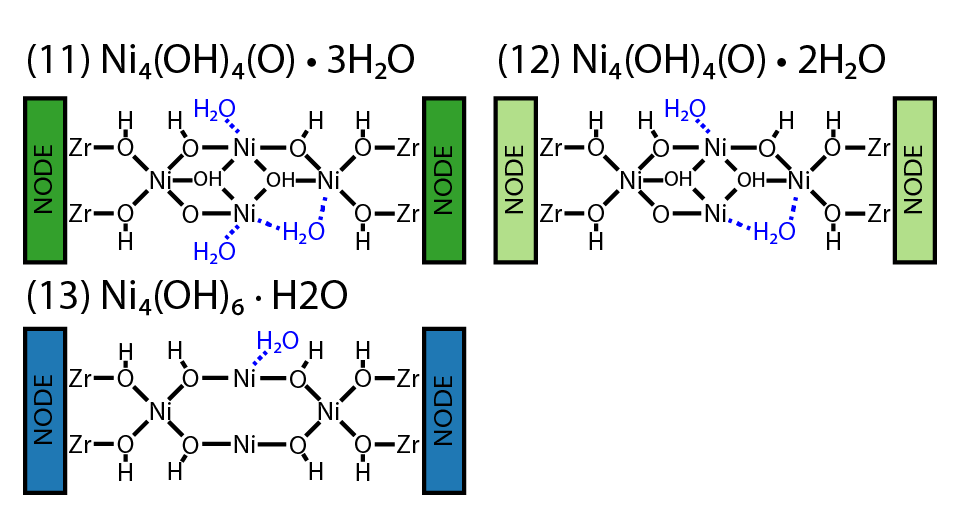
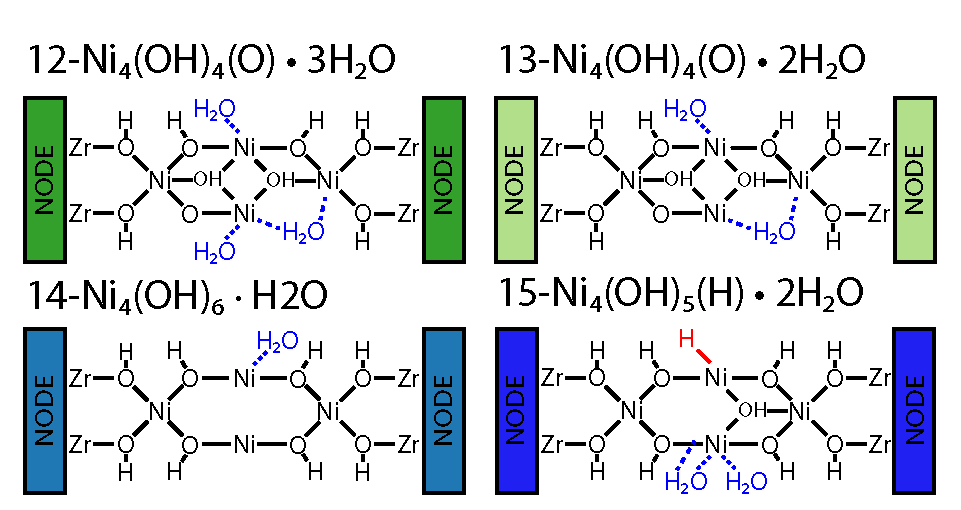
making large changes to the document because of the most recent feedback from Rachel about the manuscript.

diff --git a/outline.tex b/outline.tex
@@ -247,28 +247,26 @@ We create phase diagrams that show the stability of different configurations and
 
 \begin{figure}[H]
     \centering
-    \includegraphics{zi-images/01-Ni-Graphics/2021-figure-structure-diagram-Ni_manuscript-structure.png}
+    \includegraphics{zi-images/01-Ni-Graphics/2021-figure-structure-Ni-transformations_manuscript-structure.png}
     \caption{Schematic representation of the structures that minimize the free energy expression (\ref{eq:free-energy-trans}) the \textit{ab initio} thermodynamic analysis. The blue colored \ce{H2O}s indicate \ce{H2O} coordinated to \ce{Ni} atoms and the red colored \ce{H} atoms indicate the formation of a \ce{Ni-H}.} 
     \label{fig:Ni-structure-diagram}
 \end{figure}
 
-Under the studied reaction conditions, the stable structures that minimize the free energy during \textit{ab initio} thermodynamic analysis are shown in Figure \ref{fig:Ni-structure-diagram}. Figure \ref{fig:Ni-structure-diagram} demonstrates the diverse structural landscape of the \ce{Ni4} metal complex. For example, model 2-\ce{Ni4(OH)6.H2O} (gray) contains adsorbed \ce{H2O} coordinated to one of the \ce{Ni} atoms and model \hl{TEAL structure} contains a \ce{Ni-H} species. Additionally, we observe structures containing the loss of \ce{Ni} atoms (model 6-\ce{Ni2(H)2} (lilac)). The phase diagram describing the different conditions for these structures is shown in Figure \ref{fig:phase_diagram_Ni_combined}. 
+Under the studied reaction conditions, the stable structures that minimize the free energy during \textit{ab initio} thermodynamic analysis are shown in Figure \ref{fig:Ni-structure-diagram}. Figure \ref{fig:Ni-structure-diagram} demonstrates the diverse structural landscape of the \ce{Ni4} metal complex. For example, model 2-\ce{Ni4(OH)6.H2O} (gray) contains adsorbed \ce{H2O} coordinated to one of the \ce{Ni} atoms and model 8-\ce{Ni4(OH)5(H).4H2O} (teal) contains a \ce{Ni-H} species. Additionally, we observe structures containing the loss of \ce{Ni} atoms (model 6-\ce{Ni2(H)2} (lilac)). The phase diagram describing the different conditions for these structures is shown in Figure \ref{fig:phase_diagram_Ni_combined}. 
 
 % fully transforming Phase diagram 
 \begin{figure}[H]
     \centering
     \includegraphics{zi-images/01-Ni-Graphics/2021-03-23-Ni-phase-diagram-combined-manuscript.png}
     \caption{
-    \hl{THIS FIGURE NEEDS TO BE UPDATED WITH RACHEL'S RECOMMENDATIONS}
-    The stability of the \ce{Ni(II)} cluster as a function of temperature and \ce{H2} partial pressure at a \ce{H2O} partial pressure = $10^{-9}$ bar when transforming with (a)
-    \ce{H^{*}}, \ce{OH^{*}}, and \ce{Ni^{*}} and, (b) \ce{H^{*}} and \ce{OH^{*}} (fixed \ce{Ni^{*}}). Regions indicate the the modified structure that minimizes the free energy Equation (\ref{eq:free-energy-trans}) at a given combination of $T/P_{H_{2}}$ and fixed \ce{H2O} partial pressure. The \ce{H2} partial pressure is reported as $log(P_{H_{2}}/P_{H_{2}}^{o})$, where the standard state is 1 atm. The following naming convention is adopted for the structures: 
+    The stability of the \ce{Ni(II)} cluster as a function of temperature and \ce{H2} partial pressure at a \ce{H2O} partial pressure = $10^{-9}$ bar when transforming with (a) \ce{H^{*}}, \ce{OH^{*}}, and \ce{Ni^{*}} and, (b) \ce{H^{*}} and \ce{OH^{*}} (fixed \ce{Ni^{*}}). Regions indicate the the modified structure that minimizes the free energy Equation (\ref{eq:free-energy-trans}) at a given combination of $T/P_{H_{2}}$ and fixed \ce{H2O} partial pressure. The \ce{H2} partial pressure is reported as $log(P_{H_{2}}/P_{H_{2}}^{o})$, where the standard state is 1 atm. The following naming convention is adopted for the structures: 
     1-\ce{Ni4(OH)6} (purple),              % purple
     2-\ce{Ni4(OH)6.H2O} (gray),            % gray
     3-\ce{Ni4(OH)6.4H2O} (orange),         % orange
     4-\ce{Ni4(OH)4} (light blue),          % light blue
     5-\ce{Ni3(OH)2} (red),                 % red
     6-\ce{Ni2(H)2} (lilac),                % lilac 
-    7-\ce{Ni4(OH)4.1H2O} (yellow),         % yellow
+    7-\ce{Ni4(OH)4.H2O} (yellow),         % yellow
     8-\ce{Ni4(OH)5(H).4H2O} (teal),        % teal 
     9-\ce{Ni4(H)2} (mint),                 % mint 
     10-\ce{Ni4(OH)2(H)2} (green), and      % green 
@@ -281,7 +279,7 @@ The cluster is fully transformed, $\Delta F^{(3)}(T,\mu_{\text{H}^{*}},\mu_{\tex
 
 At ambient temperatures (25 \degree C) with a small \ce{H2} partial pressure ($10^{-30}$ bar), the most thermodynamically stable structure is the reference structure, 3-\ce{Ni4(OH)6.4H2O} (orange). Increasing the temperature with a small \ce{H2} partial pressure ($10^{-30}$ bar) shifts the thermodynamic minimum from 3-\ce{Ni4(OH)6.4H2O} (orange) (below 90 \degree C) to 2-\ce{Ni4(OH)6.H2O} (gray) (90 \degree C to 130 \degree C) to 1-\ce{Ni4(OH)6} (purple) (above 130 \degree C). In the absence of \ce{H2}, an increase in temperature removes any coordinated \ce{H2O} from the cluster.
 
-With all coordinated \ce{H2O} removed, an increase in \ce{H2} partial pressure suggests significant changes to the structure and composition of the metal complex. At 200 \degree C, the thermodynamic minimum shifts from the 1-\ce{Ni4(OH)6} (purple) model (below $10^{-27}$ bar) to the  4-\ce{Ni4(OH)4} (light blue) model ($10^{-27}$ bar to $10^{-24}$ bar) to the 5-\ce{Ni3(OH)2} (red) model  ($10^{-24}$ bar to $10^{-17}$ bar) to 6-\ce{Ni2(H)2} (lilac) (above $10^{-17}$ bar) with increasing \ce{H2} partial pressure. The transition between structures occurs via the transformation of \ce{OH}-ligands into \ce{H2O} because of the increasing \ce{H2} partial pressure. Structures 5-\ce{Ni3(OH)2} (red) and 6-\ce{Ni2(H)2} (lilac) also exhibit a loss of \ce{Ni^{*}}, with 6-\ce{Ni2(H)2} (lilac) no longer containing a metal complex linking adjacent nodes within the small pore. As described by Figure \ref{fig:phase_diagram_Ni_combined} (a), at higher \ce{H2} partial pressures these transformations between structures can occur at lower temperatures. We further evaluate the removal of the entire complex, which revealed that under the conditions shown in Figure \ref{fig:phase_diagram_Ni_combined} the global thermodynamic minimum is the NU-1000 MOF support without any \ce{Ni} supported metal complex.
+With all coordinated \ce{H2O} removed, an increase in \ce{H2} partial pressure suggests significant changes to the structure and composition of the metal complex. At 200 \degree C, the thermodynamic minimum shifts with increasing \ce{H2} partial pressure from the 1-\ce{Ni4(OH)6} (purple) model (below $10^{-27}$ bar) to the  4-\ce{Ni4(OH)4} (light blue) model ($10^{-27}$ bar to $10^{-24}$ bar) to the 5-\ce{Ni3(OH)2} (red) model  ($10^{-24}$ bar to $10^{-17}$ bar) to 6-\ce{Ni2(H)2} (lilac) (above $10^{-17}$ bar). The transition between structures occurs via the transformation of \ce{OH}-ligands into \ce{H2O} because of the increasing \ce{H2} partial pressure. Structures 5-\ce{Ni3(OH)2} (red) and 6-\ce{Ni2(H)2} (lilac) also exhibit a loss of \ce{Ni^{*}}, with 6-\ce{Ni2(H)2} (lilac) no longer containing a metal complex linking adjacent nodes within the small pore. As described by Figure \ref{fig:phase_diagram_Ni_combined} (a), at higher \ce{H2} partial pressures these transformations between structures can occur at lower temperatures. We further evaluate the removal of the entire complex, which revealed that under the conditions shown in Figure \ref{fig:phase_diagram_Ni_combined} the global thermodynamic minimum is the NU-1000 MOF support without any \ce{Ni} supported metal complex.
 
 % fully transforming dPDFs
 \begin{figure}[H]
@@ -293,16 +291,19 @@ With all coordinated \ce{H2O} removed, an increase in \ce{H2} partial pressure s
 
 We evaluate the performance of our model by comparing the model dPDFs to experimental dPDFs for an activated \ce{Ni} metal complex supported on NU-1000. \citeauthor{PlateroPrats2017} synthesized the tetranuclear \ce{Ni} cluster, and then activated it by performing a temperature ramp to 200 \degree C and holding the temperature at 200 \degree C for 2 hours under \ce{H2} (3.5\% in \ce{He}).\cite{PlateroPrats2017} 
 
-
 The dPDFs provide structural insights into the cluster by revealing key interatomic distances with peaks indicating the distance between different atoms. Experimentally, the significant dPDF peaks are the \ce{Ni-O} bond length at 2.02 {\AA}, the \ce{Ni{\Compactcdots}Ni} distances at 3.01 {\AA} and 3.27 {\AA}, and the \ce{Ni{\Compactcdots}Zr} distances at 3.78 {\AA} and 4.08 {\AA}. The experimental, activated dPDFs for \ce{Ni{\Compactcdots}Ni} and \ce{Ni{\Compactcdots}Zr} contain multiple peaks that suggests asymmetric distances within the cluster. Figure \ref{fig:dPDFs_TandP_trans_Ni} shows the dPDFs for all the thermodynamically favorable structures found in Figure \ref{fig:phase_diagram_Ni_combined} (a). 
 
-For the \ce{Ni-O} peak, we observe good agreement between the experimental dPDF and the 1-\ce{Ni4(OH)6} (purple) (purple) dPDF. However, the other model structures either under predict (4-\ce{Ni4(OH)4} (light blue), 5-\ce{Ni3(OH)2} (red), and 6-\ce{Ni2(H)2} (lilac)) or slightly over predict (\ce{Ni4(OH)6.41H2O} and 3-\ce{Ni4(OH)6.4H2O} (orange)) the \ce{Ni-O} distance. There is less agreement between the experimental dPDF and the model dPDFs for the \ce{Ni{\Compactcdots}Ni} and \ce{Ni  {\Compactcdots}Zr} split peaks. None of the model structures recreate the split peaks for \ce{Ni{\Compactcdots}Ni} and \ce{Ni{\Compactcdots}Zr}. 1-\ce{Ni4(OH)6} (purple), \ce{Ni4(OH)4.4H2O} and 4-\ce{Ni4(OH)4} (light blue) show a broad \ce{Ni{\Compactcdots}Ni} peak between 3.01 A and 3.27 A rather than two distinct \ce{Ni{\Compactcdots}Ni} peaks. There is no agreement for 6-\ce{Ni2(H)2} (lilac) and 5-\ce{Ni3(OH)2} (red) compared to the 1 Cycle (activated) dPDF for the \ce{Ni{\Compactcdots}Ni} peaks. Additionally, 4-\ce{Ni4(OH)4} (light blue) contains a small peak around 2.29 A that is attributed to another \ce{Ni{\Compactcdots}Ni} distance (\hl{see support information}). Again, none of the model structures are able to recreate the split \ce{Ni{\Compactcdots}Zr} split peaks. 1-\ce{Ni4(OH)6} (purple) and 3-\ce{Ni4(OH)6.4H2O} (orange) contain a single peak centered between the two \ce{Ni{\Compactcdots}Zr} split break bounds. 2-\ce{Ni4(OH)6.H2O} (gray) and 4-\ce{Ni4(OH)4} (light blue) also exhibit a single peak; however, this peak is centered around the lower \ce{Ni{\Compactcdots}Zr} split peak bound. For 5-\ce{Ni3(OH)2} (red) and 6-\ce{Ni2(H)2} (lilac), there are no peaks within the \ce{Ni{\Compactcdots}Zr} region. The 5-\ce{Ni3(OH)2} (red) peak at 3.63 A is the \ce{Ni{\Compactcdots}Zr} peak. When transforming with $\ce{H^{*}}$, $\ce{OH^{*}}$, and $\ce{Ni^{*}}$, we observe that the model structures with \ce{Ni} content less than 4 \ce{Ni} per node do not exhibit peak positions that are similar to the experimental dPDF. 
+For the \ce{Ni-O} peak, we observe good agreement between the experimental dPDF and the 1-\ce{Ni4(OH)6} (purple) (purple) dPDF. However, the other model structures either under predict (4-\ce{Ni4(OH)4} (light blue), 5-\ce{Ni3(OH)2} (red), and 6-\ce{Ni2(H)2} (lilac)) or slightly over predict (\ce{Ni4(OH)6.41H2O} and 3-\ce{Ni4(OH)6.4H2O} (orange)) the \ce{Ni-O} distance. There is less agreement between the experimental dPDF and the model dPDFs for the \ce{Ni{\Compactcdots}Ni} and \ce{Ni  {\Compactcdots}Zr} split peaks. None of the model structures recreate the split peaks for \ce{Ni{\Compactcdots}Ni} and \ce{Ni{\Compactcdots}Zr}. 1-\ce{Ni4(OH)6} (purple), \ce{Ni4(OH)4.4H2O} and 4-\ce{Ni4(OH)4} (light blue) show a broad \ce{Ni{\Compactcdots}Ni} peak between 3.01 A and 3.27 A rather than two distinct \ce{Ni{\Compactcdots}Ni} peaks. There is no agreement for 6-\ce{Ni2(H)2} (lilac) and 5-\ce{Ni3(OH)2} (red) compared to the experimental dPDF for the \ce{Ni{\Compactcdots}Ni} peaks. Additionally, 4-\ce{Ni4(OH)4} (light blue) contains a small peak around 2.29 A that is attributed to another \ce{Ni{\Compactcdots}Ni} distance (\hl{see support information}). Again, none of the model structures are able to recreate the split \ce{Ni{\Compactcdots}Zr} split peaks. 1-\ce{Ni4(OH)6} (purple) and 3-\ce{Ni4(OH)6.4H2O} (orange) contain a single peak centered between the two \ce{Ni{\Compactcdots}Zr} split break bounds. 2-\ce{Ni4(OH)6.H2O} (gray) and 4-\ce{Ni4(OH)4} (light blue) also exhibit a single peak; however, this peak is centered around the lower \ce{Ni{\Compactcdots}Zr} split peak bound. For 5-\ce{Ni3(OH)2} (red) and 6-\ce{Ni2(H)2} (lilac), there are no peaks within the \ce{Ni{\Compactcdots}Zr} region. The 5-\ce{Ni3(OH)2} (red) peak at 3.63 A is the \ce{Ni{\Compactcdots}Zr} peak. When transforming with $\ce{H^{*}}$, $\ce{OH^{*}}$, and $\ce{Ni^{*}}$, we observe that the model structures with \ce{Ni} content less than 4 \ce{Ni} per node do not exhibit peak positions that are similar to the experimental dPDF. 
 
 In general, the structures located in Figure \ref{fig:phase_diagram_Ni_combined} (a) are too uncoordinated to match the experimental dPDF. Experimentally, \citeauthor{PlateroPrats2017} found the \ce{Ni} coordination environment be approximately 5.4 under activation conditions.\cite{PlateroPrats2017} The structures shown in Figure \ref{fig:Ni-structure-diagram} fail to match the experimentally observed coordination environment for the \ce{Ni} atoms. Therefore, we explore the stability of the cluster with a fixed \ce{Ni^{*}} composition.
 
 %Despite Figure \ref{fig:structure_diagram_TandP_trans_Ni} suggesting the complete breakdown of the cluster in a bulk-\ce{Ni} species, there is no experimental evidence. Therefore, we remove all structures with a \ce{Ni} compositional less than four and remove the \ce{Ni} transformation in the free energy expression. Figure \ref{fig:phase_diagram_TandP_fixed_Ni} shows the thermodynamic stability as a function of T and P-H2 at a fixed partial pressure of H2O and \ce{Ni} composition. 
 
-The cluster is now transformed with respect to composition of $\ce{H^{*}}$ and $\ce{OH^{*}}$ at a fixed \ce{Ni^{*}} composition (Figure \ref{fig:phase_diagram_Ni_combined} b)). 1-\ce{Ni4(OH)6} (purple), 2-\ce{Ni4(OH)6.H2O} (gray), 3-\ce{Ni4(OH)6.4H2O} (orange), and 4-\ce{Ni4(OH)4} (light blue) appear on both (Figure \ref{fig:phase_diagram_Ni_combined} a) and b). The new models appear appearing on the diagram are \ce{Ni4(OH)4.H2O}, 9-\ce{Ni4(H)2} (mint), \ce{Ni(NiOH)2(NiH2)}, and 11-\ce{Ni4(OH)2(H)2.H2O} (pink). These models occupy the phase space of 5-\ce{Ni3(OH)2} and 6-\ce{Ni2(H)2} (lilac) on Figure \ref{fig:phase_diagram_Ni_combined} a). A similar trend is observed in Figure \ref{fig:phase_diagram_Ni_combined} b) as Figure \ref{fig:phase_diagram_Ni_combined} a); the continued conversion of \ce{\mu_{2}-OH^{*}} sites into \ce{H2O} with increasing \ce{H2} partial pressure. Starting from 4-\ce{Ni4(OH)4} (light blue), the lowest energy structures exhibit the replacement of \ce{\mu_{2}-OH} ligands with \ce{Ni-H-Ni} structural units. 10-\ce{Ni4(OH)2(H)2} (green) shows the partial conversion of and 9-\ce{Ni4(H)2} (mint) shows the full conversion of the \ce{\mu_{2}-OH} ligands that link the \ce{Ni} atoms of the cluster. Even at low temperatures, adsorbed \ce{H2O} is found in the lowest energy structures (\ce{Ni4(OH)4.H2O} and 11-\ce{Ni4(OH)2(H)2.H2O} (pink)). 
+The cluster is now transformed with respect to composition of $\ce{H^{*}}$ and $\ce{OH^{*}}$ at a fixed \ce{Ni^{*}} composition (Figure \ref{fig:phase_diagram_Ni_combined} (b)). 1-\ce{Ni4(OH)6} (purple), 2-\ce{Ni4(OH)6.H2O} (gray), 3-\ce{Ni4(OH)6.4H2O} (orange), and 4-\ce{Ni4(OH)4} (light blue) appear on both Figure \ref{fig:phase_diagram_Ni_combined} (a) and (b). The new models appear appearing on \ref{fig:phase_diagram_Ni_combined} (b) are 7-\ce{Ni4(OH)4.H2O} (yellow), 8-\ce{Ni4(OH)5(H).4H2O} (teal), 9-\ce{Ni4(H)2} (mint), 10-\ce{Ni4(OH)2(H)2} (green), and 11-\ce{Ni4(OH)2(H)2.H2O} (pink). These models occupy the phase space of 5-\ce{Ni3(OH)2} (red) and 6-\ce{Ni2(H)2} (lilac) on Figure \ref{fig:phase_diagram_Ni_combined} (a). 
+
+A similar trend is observed in Figure \ref{fig:phase_diagram_Ni_combined} (b) as Figure \ref{fig:phase_diagram_Ni_combined} (a); the continued conversion of \ce{\mu_{2}-OH^{*}} sites into \ce{H2O} with increasing \ce{H2} partial pressure. Starting from 4-\ce{Ni4(OH)4} (light blue), the lowest energy structures exhibit the replacement of \ce{\mu_{2}-OH} ligands with \ce{Ni-H-Ni} structural units. 10-\ce{Ni4(OH)2(H)2} (green) shows the partial conversion of and 9-\ce{Ni4(H)2} (mint) shows the full conversion of the \ce{\mu_{2}-OH} ligands that link the \ce{Ni} atoms of the cluster. Even at low temperatures, adsorbed \ce{H2O} is found in the lowest energy structures (7-\ce{Ni4(OH)4.H2O} (yellow) and 11-\ce{Ni4(OH)2(H)2.H2O} (pink)). 
+
+Interestingly, 8-\ce{Ni4(OH)5(H).4H2O} (teal) exhibits a \ce{Ni-H} and two coordinated \ce{H2O} to the adjacent middle \ce{Ni} atom. However, we also capture a chain of \ce{H2O} molecules that are not coordinated to any of the \ce{Ni} atoms. A structure with these \ce{H2O} removed did not appear to be a thermodynamic minimum after performing \textit{ab initio} thermodynamic analysis. 
 
 % Fixed Ni dPDFs
 \begin{figure}[H]
@@ -312,15 +313,17 @@ The cluster is now transformed with respect to composition of $\ce{H^{*}}$ and $
     \label{fig:dPDFs_TandP_fixed_Ni}
 \end{figure}
 
-We again evaluate the performance of our model system by comparing the model dPDFs to the experimental 1 cycle (activated) dPDF by comparing peaks across all structures (Figure \ref{fig:dPDFs_TandP_fixed_Ni}). First, we find that all model structures underpredict the \ce{Ni-O} bond length. Second, we find that as the cluster is reduced and \ce{OH^{*}} are removed a sharp peak appears between 2.1 A and 2.5 A. Inspecting the structures, the peak is related to a \ce{Ni{\Compactcdots}Ni} distance between the two middle atoms of the cluster and is seen by \ce{Ni4(OH)4.H2O}, 9-\ce{Ni4(H)2} (mint), \ce{Ni(NiOH)2(NiH2)}, and 11-\ce{Ni4(OH)2(H)2.H2O} (pink). The split \ce{Ni{\Compactcdots}Ni} peaks are not captured by any of the thermodynamically dominate structures. However, \ce{Ni4(OH)4.H2O} and 9-\ce{Ni4(H)2} (mint) show a single sharp peak centered around the split \ce{Ni{\Compactcdots}Ni} peaks. Interestingly, 11-\ce{Ni4(OH)2(H)2.H2O} (pink) shows no peak within the 3.01 A to 3.27 A, but shows a prominent peaks associated to a \ce{Ni{\Compactcdots}Ni} distance at 2.30 A and 2.71 A. 9-\ce{Ni4(H)2} (mint) and 11-\ce{Ni4(OH)2(H)2.H2O} (pink) show a single peak within the bounds for the 1 Cycle (activated) \ce{Ni{\Compactcdots}Zr} split peaks. 10-\ce{Ni4(OH)2(H)2} (green) weakly exhibits the split \ce{Ni{\Compactcdots}Zr} peaks, but includes additional peaks at 2.20, 2.54, and 3.40 that are attributed to a \ce{Ni{\Compactcdots}Ni} distance. For the \ce{Ni{\Compactcdots}Zr}, 4-\ce{Ni4(OH)4} (light blue) shows a single peak at 3.81 A and 11-\ce{Ni4(OH)2(H)2.H2O} (pink) shows a single peak at 3.95 A. 9-\ce{Ni4(H)2} (mint) show a single peak between the 1 Cycle (activated) peaks at 3.88 A, but also features an additional \ce{Ni{\Compactcdots}Zr} peak at 3.17 A. 10-\ce{Ni4(OH)2(H)2} (green) shows two peaks of unequal height at 3.78 A and 4.00 A that are close to the peak positions of the 1 Cycle (activated) sample. \ce{Ni4(OH)4.H2O} shows \ce{Ni{\Compactcdots}Zr} peak splitting; however, the splitting is shifted to lower positions at 3.66 A and 3.92 A. Overall, we observe peak splitting in a few structures, but fail to see an overall agreement with the 1 Cycle (activated) dPDFs from \citeauthor{PlateroPrats2017} 
+We again evaluate the performance of our model system by comparing the model dPDFs to the experimental dPDF by comparing peaks across all structures (Figure \ref{fig:dPDFs_TandP_fixed_Ni}). First, we find that all model structures underpredict the \ce{Ni-O} bond length. Second, we find that as the cluster is reduced and \ce{OH^{*}} are removed a sharp peak appears between 2.1 A and 2.5 A. Inspecting the structures, the peak is related to a \ce{Ni{\Compactcdots}Ni} distance between the two middle atoms of the cluster and is seen by 7-\ce{Ni4(OH)4.H2O}, 9-\ce{Ni4(H)2} (mint), \ce{Ni(NiOH)2(NiH2)}, and 11-\ce{Ni4(OH)2(H)2.H2O} (pink). The split \ce{Ni{\Compactcdots}Ni} peaks are not captured by any of the thermodynamically dominate structures. However, 7-\ce{Ni4(OH)4.H2O} and 9-\ce{Ni4(H)2} (mint) show a single sharp peak centered around the split \ce{Ni{\Compactcdots}Ni} peaks. Interestingly, 11-\ce{Ni4(OH)2(H)2.H2O} (pink) shows no peak within the 3.01 A to 3.27 \AA, but shows a prominent peaks associated to a \ce{Ni{\Compactcdots}Ni} distance at 2.30 {\AA} and 2.71 {\AA}. 9-\ce{Ni4(H)2} (mint) and 11-\ce{Ni4(OH)2(H)2.H2O} (pink) show a single peak within the bounds for the experimental \ce{Ni{\Compactcdots}Zr} split peaks. 10-\ce{Ni4(OH)2(H)2} (green) weakly exhibits the split \ce{Ni{\Compactcdots}Zr} peaks, but includes additional peaks at 2.20 \AA, 2.54 \AA, and 3.40 {\AA} that are attributed to a \ce{Ni{\Compactcdots}Ni} distance. For the \ce{Ni{\Compactcdots}Zr}, 4-\ce{Ni4(OH)4} (light blue) shows a single peak at 3.81 {\AA} and 11-\ce{Ni4(OH)2(H)2.H2O} (pink) shows a single peak at 3.95 {\AA}. 9-\ce{Ni4(H)2} (mint) show a single peak between the experimental peaks at 3.88 \AA, but also features an additional \ce{Ni{\Compactcdots}Zr} peak at 3.17 {\AA}. 10-\ce{Ni4(OH)2(H)2} (green) shows two peaks of unequal height at 3.78 {\AA} and 4.00 {\AA} that are close to the peak positions of the experimental sample. 7-\ce{Ni4(OH)4.H2O} shows \ce{Ni{\Compactcdots}Zr} peak splitting; however, the splitting is shifted to lower positions at 3.66 {\AA} and 3.92 {\AA}. Overall, we observe peak splitting in a few structures, but fail to exactly reproduce the experimental dPDFs from \citeauthor{PlateroPrats2017} 
 
-For a fixed \ce{Ni^{*}}, we again find the coordination between the model structure and the 1 Cycle (activated) to disagree. With increasing \ce{H2} partial pressure, the \ce{Ni} coordination decreases to create undercoordinated \ce{Ni} species.
+Interestingly, model 8-\ce{Ni4(OH)5(H).4H2O} (teal) features \ce{Ni-H} and adsorbed \ce{H2O}. For the \ce{Ni-O} peak, 8-\ce{Ni4(OH)5(H).4H2O} (teal) features a broad peak (centered around the 2.02 \AA) is attributed to the range of \ce{Ni-O} distances within the cluster (Figure \ref{fig:atomic-distances-Ni}). Additionally, 8-\ce{Ni4(OH)5(H).4H2O} contains split \ce{Ni{\Compactcdots}Ni} peaks albeit that the split \ce{Ni{\Compactcdots}Ni} peak is shifted to 2.84 {\AA} and 3.25 {\AA} compared to 3.01 {\AA} and 3.27 {\AA}. For the \ce{Ni{\Compactcdots}Zr} split peaks, model 8-\ce{Ni4(OH)5(H).4H2O} (teal) contains a single peak centers between the experimental peaks.   
+
+Again, we find that the bulk of the structures for a fixed \ce{Ni^{*}} under predict the coordination environment for the \ce{Ni} atoms except for the structures at lower \ce{H2} partial pressure and temperature (3-\ce{Ni4(OH)6.4H2O} (orange) and 8-\ce{Ni4(OH)5(H).4H2O} (teal)). This analysis therefore suggests that even during activation conditions \ce{H2O} still is present within the active site structure. We search the model structure library to find structures that more closely match the peak splitting observed experimental and \ce{Ni} coordination environment (Figure \ref{fig:Ni-special-structures}). We find that the following model structures are relevant: 12-\ce{Ni4(OH)4(O).3H2O} (green), 13-\ce{Ni4(OH)4(O).2H2O} (light green), 14-\ce{Ni4(OH)6.H2O} (blue), and 15-\ce{Ni4(OH)5(H).2H2O} (royal). 
 
 \begin{figure}[H]
     \centering
-    \includegraphics{zi-images/01-Ni-Graphics/2021-03-03-Ni-special-selection-dPDFs-manuscript.png}
+    \includegraphics{zi-images/01-Ni-Graphics/2021-03-26-Ni-special-selection-dPDFs-manuscript.png}
     \caption{
-    Differential pair distribution functions (dPDFs) for select model structures that do not appear on Figure \ref{fig:phase_diagram_Ni_combined}. The structures shown above are not thermodynamic minimum. The naming convention is adopted: (11) \ce{Ni4(OH)4(O).3H2O} (green), (12) \ce{Ni4(OH)4(O).2H2O} (light green), and (13) \ce{Ni4(OH)6.H2O} (blue).
+    Differential pair distribution functions (dPDFs) for select model structures that do not appear on Figure \ref{fig:phase_diagram_Ni_combined}. The structures shown above are not thermodynamic minimum. The naming convention is adopted: 12-\ce{Ni4(OH)4(O).3H2O} (green), 13-\ce{Ni4(OH)4(O).2H2O} (light green), 14-\ce{Ni4(OH)6.H2O} (blue), and 15-\ce{Ni4(OH)5(H).2H2O} (royal).
     }
     \label{fig:dPDF-Ni-special}
 \end{figure}
@@ -329,62 +332,64 @@ For a fixed \ce{Ni^{*}}, we again find the coordination between the model struct
     \centering
     \includegraphics{zi-images/01-Ni-Graphics/2021-figure-structure-Ni-transformations_manuscript-additional-structures.png}
     \caption{
-    Schematic representations of the model structures found in Figure \ref{fig:dPDF-Ni-special}, with the following naming convention: (11) \ce{Ni4(OH)4(O).3H2O} (green), (12) \ce{Ni4(OH)4(O).2H2O} (light green), and (13) \ce{Ni4(OH)6.H2O} (blue). The structures shown here do not represent a thermodynamic minimum from the \textit{ab initio} thermodynamic analysis and therefore do not appear on the phase diagrams. 
+    Schematic representations of the model structures found in Figure \ref{fig:dPDF-Ni-special}, with the following naming convention: 12-\ce{Ni4(OH)4(O).3H2O} (green), 13-\ce{Ni4(OH)4(O).2H2O} (light green), 14-\ce{Ni4(OH)6.H2O} (blue), and 15-\ce{Ni4(OH)5(H).2H2O} (royal). The structures shown here do not represent a thermodynamic minimum from the \textit{ab initio} thermodynamic analysis and therefore do not appear on the phase diagrams. 
     }
     \label{fig:Ni-special-structures}
 \end{figure}
 
-We searched the model structure library to find structures that might better reproduce the 1 (Cycled) activated dPDF (Figure \ref{fig:Ni-special-structures}). We found the following model structures to be structurally relevant: (11) \ce{Ni4(OH)4(O).3H2O} (green), (12) \ce{Ni4(OH)4(O).2H2O} (light green), and (13) \ce{Ni4(OH)6.H2O} (blue). Both (11) \ce{Ni4(OH)4(O).3H2O} (green) and \ce{Ni4(OH)4(O).2H2O} (light green) are structurally unique. The proton topology of the cluster was modified by transforming a \ce{\mu_{2}-OH} ligand to an \ce{\mu_{2}-O} ligand. 
-Although not as pronounced, (11) \ce{Ni4(OH)4(O).3H2O} (green) demonstrates both \ce{Ni{\Compactcdots}Ni} and \ce{Ni{\Compactcdots}Zr} peak splitting. The upper bound for the \ce{Ni{\Compactcdots}Ni} peak is shifted 3.35 A from 3.27 A. The \ce{Ni-O} peak for (11) \ce{Ni4(OH)4(O).3H2O} (green) matches the peak of 2.02 A of the 1 Cycle (activated). However, the \ce{Ni-O} peak for (11) \ce{Ni4(OH)4(O).3H2O} (green) is noticeably broader. The increased width is attributed to the adsorbed \ce{H2O} distance around 2.25 A. (12) \ce{Ni4(OH)4(O).2H2O} (light green) matches the \ce{Ni-O} distance, and does contain split \ce{Ni{\Compactcdots}Ni} peaks that are shifted to lower distances relative to the 1 Cycle (activated). (12) \ce{Ni4(OH)4(O).2H2O} (light green) model does not demonstrate \ce{Ni{\Compactcdots}Zr} peak splitting, but does contain a single peak at the lower \ce{Ni{\Compactcdots}Zr} limit. The (13) \ce{Ni4(OH)6.H2O} (blue) model contains a sharp peak at 2.04 A related to the \ce{Ni-O} distance, \ce{Ni{\Compactcdots}Zr} splitting shifted to lower distances, and a single \ce{Ni{\Compactcdots}Zr } peak within the bounds of \ce{Ni{\Compactcdots}Zr} peak splitting. All of the structures do not contain a \ce{Ni{\Compactcdots}Ni} peak between 2.1 A and 2.4 A, which was seen on a majority of the structures in Figure \ref{fig:phase_diagram_Ni_combined} and Figure \ref{fig:Ni-structure-diagram}. 
+Both 12-\ce{Ni4(OH)4(O).3H2O} (green) and \ce{Ni4(OH)4(O).2H2O} (light green) are structurally unique because the cluster proton topology was modified by transforming a \ce{\mu_{2}-OH} ligand to an \ce{\mu_{2}-O} ligand. Although not as pronounced, 12-\ce{Ni4(OH)4(O).3H2O} (green) demonstrates both \ce{Ni{\Compactcdots}Ni} and \ce{Ni{\Compactcdots}Zr} peak splitting. The upper bound for the \ce{Ni{\Compactcdots}Ni} peak is shifted 3.35 A from 3.27 A. The \ce{Ni-O} peak for 12-\ce{Ni4(OH)4(O).3H2O} (green) matches the peak of 2.02 A of the experimental dPDF. However, the \ce{Ni-O} peak for 12-\ce{Ni4(OH)4(O).3H2O} (green) is noticeably broader. The increased width is attributed to the adsorbed \ce{H2O} distance around 2.25 A. 13-\ce{Ni4(OH)4(O).2H2O} (light green) matches the \ce{Ni-O} distance, and does contain split \ce{Ni{\Compactcdots}Ni} peaks that are shifted to lower distances relative to the experimental dPDF. 13-\ce{Ni4(OH)4(O).2H2O} (light green) model does not demonstrate \ce{Ni{\Compactcdots}Zr} peak splitting, but does contain a single peak at the lower \ce{Ni{\Compactcdots}Zr} limit. The 14-\ce{Ni4(OH)6.H2O} (blue) model contains a sharp peak at 2.04 A related to the \ce{Ni-O} distance, \ce{Ni{\Compactcdots}Zr} splitting shifted to lower distances, and a single \ce{Ni{\Compactcdots}Zr } peak within the bounds of \ce{Ni{\Compactcdots}Zr} peak splitting.  The 15-\ce{Ni4(OH)5(H).2H2O} (royal) model structure features split \ce{Ni{\Compactcdots}Ni} peak that closely match the experimental dPDF, but also features another \ce{Ni{\Compactcdots}Ni} peak at 2.64 {\AA} and a broad \ce{Ni-O} peak. The 15-\ce{Ni4(OH)5(H).2H2O} (royal) is the optimized structure of 8-\ce{Ni4(OH)5(H).4H2O} (teal) with 2 \ce{H2O} removed from the structure. The 2.64 {\AA} peak appears with the removal of the \ce{H2O}.
 
-All three structure located on Figure \ref{fig:dPDF-Ni-special} demonstrate matching features to the 1 Cycle (activated), but do not appear on Figure \ref{fig:phase_diagram_Ni_combined} because of their electronic energies. For the same atomic composition, there are structures that are electronically lower in energy. Despite (11) \ce{Ni4(OH)4(O).3H2O} (green) showing better agreement with the 1 Cycle (activated) structure, the structure does not appear on the phase diagram. 
+All four structure located on Figure \ref{fig:dPDF-Ni-special} demonstrate matching features to the experimental dPDF, but do not appear on Figure \ref{fig:phase_diagram_Ni_combined} because of their electronic energies. For the same atomic composition, there are structures that are electronically lower in energy. These structures compete with structures at the lower temperatures. 
 
-\hl{I think a good figure would be to pick a specific set of conditions and compare the relative free energies of all the different structures. I can show the relative gibbs free energies of all the structures listed above at a specific set of conditions.. maybe like the line plot I created at the very beginning of this project.. I could pick a set temperature (200 oC) and then create a line plot with x axis being the log(PH2) and y axis being the gibbs free energy.... basically a phase diagram at a fixed temperature and PH2O).}
+\begin{figure}[H]
+    \centering
+    \includegraphics{zi-images/01-Ni-Graphics/2021-figure-lineplot.png}
+    \caption{
+    The $\Delta F^{(2)}(T,\mu_{\text{H}^{*}},\mu_{\text{OH}^{*}},N_{\text{Ni}^{*}})$ at a fixed \ce{H2} partial pressure of $10^{-5}$ bar and \ce{H2O} partial pressure of $10^{-9}$ bar. As the temperature increases, the thermodynamic landscape within the structure library changes. The colored circles are classified as thermodynamic minimum under some set of conditions, as described by Figure \ref{fig:phase_diagram_Ni_combined}. The colors and numbers are the same previously utilized by Figure \ref{fig:Ni-structure-diagram} and Figure \ref{fig:phase_diagram_Ni_combined}. The black triangles highlight the free energy of a structure within 50 kJ mol$^{-1}$ of the lowest energy structure at the specific set of conditions.
+    }
+    \label{fig:Ni-relative-energy-plot}
+\end{figure}
 
-%    (1)  \ce{Ni4(OH)6},                  % purple
-%    (2)  \ce{Ni4(OH)6.H2O},        % gray
-%    (3)  \ce{Ni4(OH)6.4H2O},       % orange
-%    (4)  \ce{Ni4(OH)4},                  % light blue
-%    (5)  \ce{Ni3(OH)2},                  % red
-%    (6)  \ce{(NiH)2},                    % lilac
-%    (7)  \ce{Ni4(OH)4.H2O},        % yellow
-%    (8)  \ce{(NiH2Ni)(Ni2)},             % mint
-%    9-\ce{Ni(NiOH)2(NiH2)}, and       % green 
-%    10-\ce{Ni(NiH)2Ni(OH)2.H2O}. % pink
+The phase diagrams, Figure \ref{fig:phase_diagram_Ni_combined}, highlight the most thermodynamically favorable structure at specific conditions. However, the next lowest energy structure is important to consider. We examine the full thermodynamic landscape at a fixed \ce{H2} partial pressure of $10^{-5}$ bar and \ce{H2O} partial pressure of $10^{-9}$ bar while varying the temperature in Figure \ref{fig:Ni-relative-energy-plot}. Additionally, we expand on the thermodynamic minimum in Figure \ref{fig:Ni-relative-energy-plot} to include library structures that are within 50 kJ mol$^{-1}$ of the lowest energy structure at those specific conditions. When considering additional structures within 50 kJ mol$^{-1}$, we determine the significance of the library and the potential for a distribution of active site structures at a specific reaction conditions. The closer in energy the structure is to the lowest energy structure, the more likely the active site is a distribution of active sites rather than the single lowest energy structure. 
+
+
+\begin{figure}[H]
+    \centering
+    \includegraphics{zi-images/01-Ni-Graphics/2021-figure-atomic-structure.png}
+    \caption{The atomic representation of 8-\ce{Ni4(OH)5(H).4H2O} (teal) is shown from the (a) top and (b) side-view. Integers label the different atoms within the structure. All \ce{H2O} are outlined in blue, and the blue non-integer numbers correspond to \ce{Ni-O} distances for the \ce{H2O}. Black, non-integer numbers correspond to the \ce{Ni-O} distances for the \ce{OH} ligands within the cluster.}
+    \label{fig:atomic-distances-Ni}
+\end{figure}
+\todo[inline]{Not sure about my thoughts on this figure.}
 
 %%%%%%%%%%%%%%%%%%%%%%%%%%%%%%%%%%%%%%%%%%%%%%%%%%%%%%%%%%%%%%%%%%%%%
 %% Discussion
 %%%%%%%%%%%%%%%%%%%%%%%%%%%%%%%%%%%%%%%%%%%%%%%%%%%%%%%%%%%%%%%%%%%%
 \newpage
 \subsection{Discussion}
-The stability of metal complexes supported on MOFs depend on the reaction environment. 
-
 %The \ce{Ni(II)} metal complex structure is dependent on the environment. In the absence of any \ce{H2}, the cluster contains four \ce{Ni(II)} atoms interconnected by \ce{OH}-ligands as suggested by \hl{REFERENCE Platero-Prats}. The tetranuclear configuration of the \ce{Ni(II)} cluster spans the c-pore of the NU-1000 framework. When exposed to \ce{H2} gas, the \ce{OH}-ligands provide sites for \ce{H} adsorption onto the cluster resulting in the formation of \ce{H2O}.  \hl{HIGHLIGHT THE SINTERING PAPER} investigate \ce{H2} adsorption and dissociation on a single \ce{Ni} atom also supported on NU-1000, finding that barriers for \ce{H2} adsorption and dissociation and removal of \ce{H2O} are 141 $kJ/mol$. However within our work, we do not look at the kinetics of \ce{H2} adsorption and dissociation and the subsequent removal of \ce{H2O}. Our discussion focuses on the equilibrium thermodynamic structure resulting from exposure to \ce{H2} gas at different partial pressure and temperatures. 
 
 
 \begin{itemize}
+    \item Discussion Topic 1: Comparisons with experiments
+    \item Discussion Topic 2: \ce{Ni-H} formation in 8-\ce{Ni4(OH)5(H).4H2O} (teal)
+    \item Discussion Topic 3:
+    \item Discussion Topic 4:
+    
     \item Discussion Topic 1:
     \begin{itemize}
-        \item Analysis suggests that ultimately the cluster is in a meta-stable state that is driven towards the breakdown of the cluster. When transforming with the number of \ce{Ni} atoms we account for leeched \ce{Ni} atoms using a bulk \ce{Ni} model.
-        \item No experimental observations about \ce{Ni(II)} leeching to form \ce{Ni(0)}-NPs in NU-1000 within the literature. However, there are discussions about the reduction of \ce{Cu(II)} to \ce{Cu(0)} under \ce{H2} reducing conditions at these temperatures. A consideration is the temperature of activation. The formation of \ce{Ni(0)}-NPs might occur at activation temperatures higher than the current standard activation conditions within the literature for MOF systems. Revisit the discussion/reference about \ce{Ni} vs. \ce{Cu} stability. 
-        \item Also there could be kinetic limitations explaining why \ce{Ni} isn't leeched from the cluster. 
-    \end{itemize}
-    \item Discussion Topic 2:
-    \begin{itemize}
-        \item The suggested model structure is the light blue structure, which shows that the mu3-OH ligands are removed. Note that this structure does NOT show any Ni-H formation on the cluster.
         \item Thermodynamically, active site formation does not demonstrate the formation of a \ce{Ni-H}, which is often to be the active species here. Possible explanation is that the dominate species here is not the \ce{Ni-H}. 
         \item The other explanation is that the \ce{Ni-H} could be the catalytically active site species; however, it might not be the lowest energy structure thermodynamically (meaning that it will not appear in on the phase diagram). There is a possibility that a distribution of active site structures exists, and that the active site structure that is catalytically active is not the dominate structure. 
         \item Additionally, something we did not consider was the \ce{H2} dissociation barriers onto \ce{Ni}. \citeauthor{Li2016sintering} demonstrate a barrier height for the transformation an \ce{OH}-site with \ce{H2} into a \ce{H}-site and \ce{H2O} of around 141 kJ/mol. Having such a high barrier is significant, and does suggest that kinetic limitations could also be present in our model. Our phase diagram is not able to capture, and include these kinetic limitations in the analysis. 
         \item Although we see the breakdown the cluster, kinetic barriers related to \ce{H2} adsorption and dissociation might inhibit the further breakdown of the cluster.
         \item Nonetheless, our model still provides clues into the potential active site structure of the 1-\ce{Ni4(OH)6} (purple) cluster. 
     \end{itemize}
-    \item Discussion Topic 3:
+    \item Discussion Topic 2:
     \begin{itemize}
         \item  Comparing the work from \citeauthor{PlateroPrats2017}, the majority of the structures contains under-coordinated \ce{Ni-atoms}. Experimentally, a coordination number of ~5 was observed.
         \item There are features shown on the phase diagram that are not present on the most recent, especially at high \ce{H2} partial pressures. At high \ce{H2} partial pressure, the structures start showing the presence of \ce{Ni-Ni} bonds. The peaks associated with \ce{Ni-Ni} bond formation are not seen experimentally, which suggests the cluster remains largely intact after activation. Throughout our analysis, as the cluster is reduced the formation is \ce{Ni-Ni} bonds is observed.     
         \item The dPDFs are from XRD data that is the average of ALL potential structures within the MOF framework.. the model dPDFs are snapshots of potential structures within the framework here. There is probably a distribution of active site structures that is dominated by the lowest energy structures. 
     \end{itemize}
-    \item Discussion Topic 4:
+    \item Discussion Topic 3: Rationalizing some of the experimental mkm work from Hafeera
     \begin{itemize}
         \item Could this help explain some of the discrepancies in reaction trends observed by \citeauthor{Shabbir2020} for \ce{Ni(II)} for \ce{C2H4} hydrogenation? The catalytically active site structure is the \ce{Ni-H} structure. However, thermodynamically, the formation of the \ce{Ni-H} is not dominate. Therefore, only a small number of sites are actually participating in the reaction. \hl{At least for Ni in Hafeera's work this could explain the differences in rates.}
         \item The influence of species such as formate being present on the node. Literature suggests that the reason a cluster forms, and why it forms within the c-pore, is because of the formate ligands capping the \ce{OH/H2O}-ligand pairs of the node. Comparing model and experimental clusters will depend on the experimental synthesis protocols. Only recently was the role of formate understood on the structure of the MOF node.  
